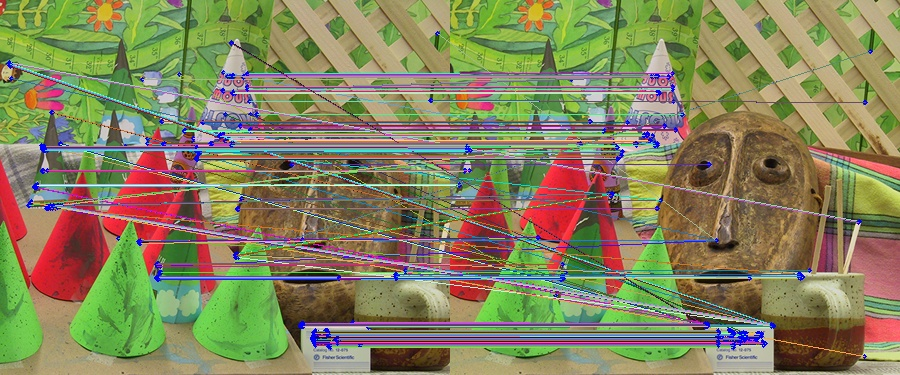
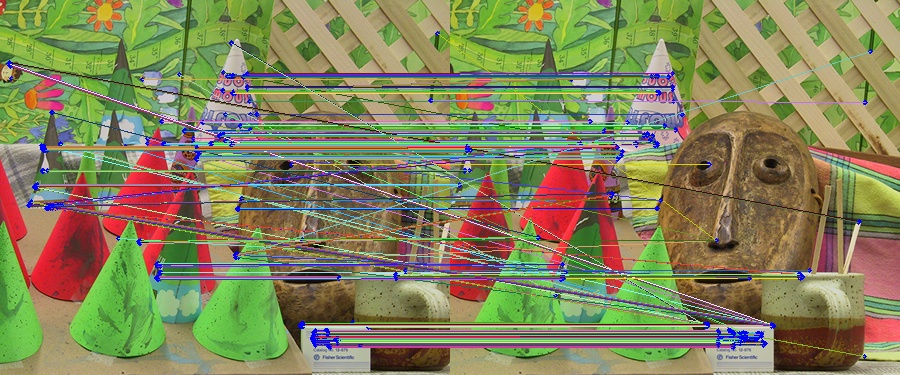
An attempt for better disparity map :')

diff --git a/stereo.py b/stereo.py
@@ -7,66 +7,109 @@ import matplotlib.pyplot as plt
 from tqdm import *
 
 
-def computeDisparityMap(img1, img2, F):
-    """
-    Compute the disparity map using the fundamental matrix.
-    ## Args:
-        stereo images: input images
-        F: Best fundamental calculated
-    ## Returns:
-        Normalized disparity map
-    """
-    # Convert to grayscale.
-    image_1 = cv2.cvtColor(img1, cv2.COLOR_BGR2GRAY)
-    image_2 = cv2.cvtColor(img2, cv2.COLOR_BGR2GRAY)
+# def computeDisparityMap(img1, img2, F):
+#     """
+#     Compute the disparity map using the fundamental matrix.
+#     ## Args:
+#         stereo images: input images
+#         F: Best fundamental calculated
+#     ## Returns:
+#         Normalized disparity map
+#     """
+#     # Convert to grayscale.
+#     image_1 = cv2.cvtColor(img1, cv2.COLOR_BGR2GRAY)
+#     image_2 = cv2.cvtColor(img2, cv2.COLOR_BGR2GRAY)
 
-    # Set the window size.
-    window = 7
+#     # Set the window size.
+#     window = 7
 
-    # Initialize the left and right stero arrays
-    left_arr, right_arr = image_1, image_2
-    left_arr, right_arr = left_arr.astype(int), right_arr.astype(int)
+#     # Initialize the left and right stero arrays
+#     left_arr, right_arr = image_1, image_2
+#     left_arr, right_arr = left_arr.astype(int), right_arr.astype(int)
 
-    # CHECK
-    if left_arr.shape != right_arr.shape:
-        raise Exception("Left- Right image shape do not match")
+#     # CHECK
+#     if left_arr.shape != right_arr.shape:
+#         raise Exception("Left- Right image shape do not match")
     
-    # Get the h and w of the image
-    h, w = left_arr.shape
+#     # Get the h and w of the image
+#     h, w = left_arr.shape
 
+#     # Initialize the disparity map
+#     disparity_map = np.zeros((h,w))
+
+#     #Compute disparity of each pixel.
+#     x_new = w - (2*window)
+#     for y in tqdm(range(window, h-window)):
+#         block_left_arr = []
+#         block_right_arr = []
+#         for x in range(window, w-window):
+#             block_left = left_arr[y:y + window,
+#                                     x:x + window]
+#             block_left_arr.append(block_left.flatten())
+
+#             block_right = right_arr[y:y + window,
+#                                     x:x + window]
+#             block_right_arr.append(block_right.flatten())
+
+#         block_left_arr = np.array(block_left_arr)
+#         block_left_arr = np.repeat(block_left_arr[:, :, np.newaxis], x_new, axis=2)
+
+#         block_right_arr = np.array(block_right_arr)
+#         block_right_arr = np.repeat(block_right_arr[:, :, np.newaxis], x_new, axis=2)
+#         block_right_arr = block_right_arr.T
+
+#         abs_diff = np.abs(block_left_arr - block_right_arr)
+#         sum_abs_diff = np.sum(abs_diff, axis = 1)
+#         idx = np.argmin(sum_abs_diff, axis = 0)
+#         disparity = np.abs(idx - np.linspace(0, x_new, x_new, dtype=int)).reshape(1, x_new)
+#         disparity_map[y, 0:x_new] = disparity 
+#         # Convert to uint8
+#         disparity_map_int = np.uint8(disparity_map * 255 / np.max(disparity_map))
+
+#     return disparity_map_int
+
+def ncc_score(block_left, block_right):
+    """Compute the normalized cross-correlation (NCC) score between two blocks."""
+    mean_left = np.mean(block_left)
+    mean_right = np.mean(block_right)
+    std_left = np.std(block_left)
+    std_right = np.std(block_right)
+    ncc = np.sum((block_left - mean_left) * (block_right - mean_right)) / (std_left * std_right * block_left.size)
+    return ncc
+
+def non_overlapping_block_matching(left_img, right_img, block_size=5):
+    """Compute the disparity map using non-overlapping block matching."""
+    left_img = cv2.cvtColor(left_img, cv2.COLOR_BGR2GRAY)
+    right_img = cv2.cvtColor(right_img, cv2.COLOR_BGR2GRAY)
+
+    # Pad the images to ensure that the blocks can be extracted from the edges
+    pad_size = block_size // 2
+    left_img_padded = np.pad(left_img, pad_size, mode='constant', constant_values=0)
+    right_img_padded = np.pad(right_img, pad_size, mode='constant', constant_values=0)
     # Initialize the disparity map
-    disparity_map = np.zeros((h,w))
+    disparity_map = np.zeros_like(left_img)
+    # Compute the disparity for each block in the left image
+    for i in tqdm(range(pad_size, left_img.shape[0] + pad_size, block_size)):
+        for j in range(pad_size, left_img.shape[1] + pad_size, block_size):
+            # Extract the current block in the left image
+            block_left = left_img_padded[i-pad_size:i+pad_size+1, j-pad_size:j+pad_size+1]
+            # Search for the best matching block in the right image
+            max_ncc = -1
+            for k in range(pad_size, right_img.shape[1] + pad_size - block_size + 1, block_size):
+                # Extract the current block in the right image
+                block_right = right_img_padded[i-pad_size:i+pad_size+1, k-pad_size:k+pad_size+1]
+                # Compute the NCC score between the two blocks
+                ncc = ncc_score(block_left, block_right)
+                # Update the best matching block if the NCC score is higher than the current maximum
+                if ncc > max_ncc:
+                    max_ncc = ncc
+                    disparity = k - j
+            # Update the disparity map with the computed disparity
+            disparity_map[i-pad_size:i+pad_size+1, j-pad_size:j+pad_size+1] = disparity
+    # Normalize the disparity map from 0 to 255
+    disparity_map_normalized = cv2.normalize(disparity_map, None, alpha=0, beta=255, norm_type=cv2.NORM_MINMAX, dtype=cv2.CV_8U)
 
-    #Compute disparity of each pixel.
-    x_new = w - (2*window)
-    for y in tqdm(range(window, h-window)):
-        block_left_arr = []
-        block_right_arr = []
-        for x in range(window, w-window):
-            block_left = left_arr[y:y + window,
-                                    x:x + window]
-            block_left_arr.append(block_left.flatten())
-
-            block_right = right_arr[y:y + window,
-                                    x:x + window]
-            block_right_arr.append(block_right.flatten())
-
-        block_left_arr = np.array(block_left_arr)
-        block_left_arr = np.repeat(block_left_arr[:, :, np.newaxis], x_new, axis=2)
-
-        block_right_arr = np.array(block_right_arr)
-        block_right_arr = np.repeat(block_right_arr[:, :, np.newaxis], x_new, axis=2)
-        block_right_arr = block_right_arr.T
-
-        abs_diff = np.abs(block_left_arr - block_right_arr)
-        sum_abs_diff = np.sum(abs_diff, axis = 1)
-        idx = np.argmin(sum_abs_diff, axis = 0)
-        disparity = np.abs(idx - np.linspace(0, x_new, x_new, dtype=int)).reshape(1, x_new)
-        disparity_map[y, 0:x_new] = disparity 
-        # Convert to uint8
-        disparity_map_int = np.uint8(disparity_map * 255 / np.max(disparity_map))
-
-    return disparity_map_int
+    return disparity_map_normalized
 
 
 def get_images(image_paths, scale_factor=1.0):
@@ -391,12 +434,10 @@ def main():
 
     # v. Compute the disparity map
     # Convert to grayscale
-    disparity_map = computeDisparityMap(img1, img2, fundmental_matrix)
+    #disparity_map = non_overlapping_block_matching(img1, img2, 7)
+    disparity_map = non_overlapping_block_matching(img1, img2, 3)
 
-    # vi. Display the disparity map
-    # Display disparity map
-    plt.cm.jet(disparity_map)
-    plt.imshow(disparity_map)
+    plt.imshow(disparity_map, cmap='plasma_r')
     plt.show()
 
 
